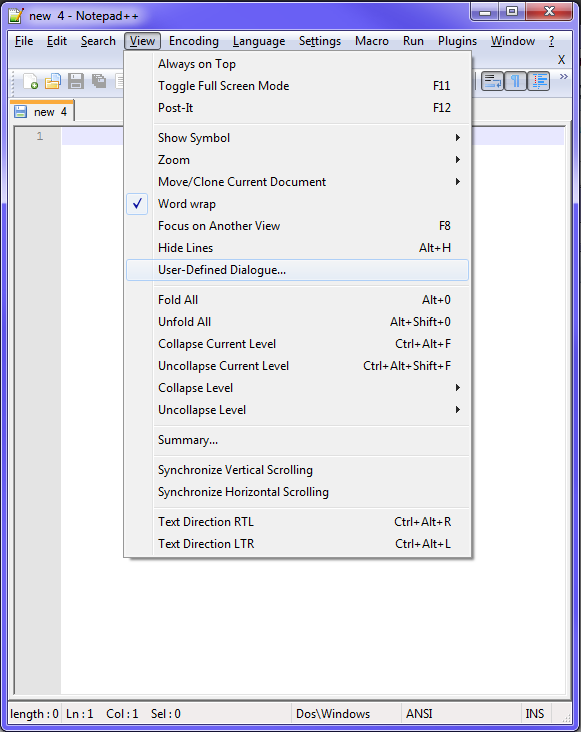
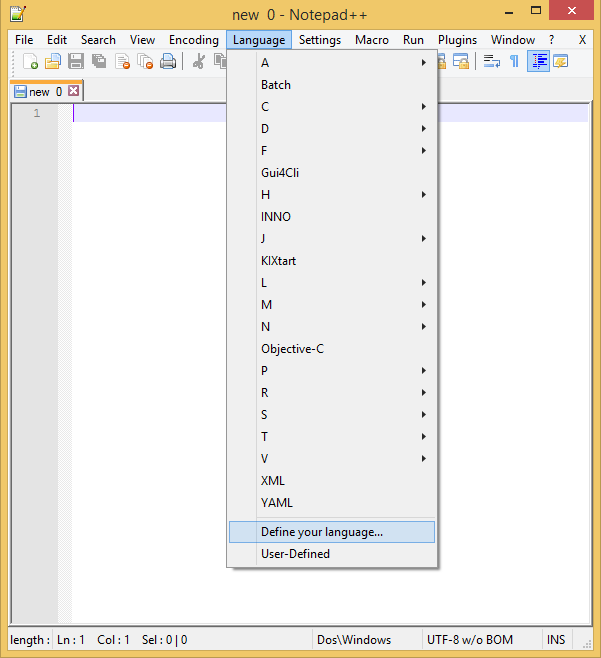
Installation process in now adjusted to notepad++ version 6.7.7

Changed region(s): [[0.0, 0.0, 1.0, 1.0]]

diff --git a/readme.rst b/readme.rst
@@ -1,10 +1,10 @@
 =================================================================================
- reStructuredText_NPP_ - reStructuredText basic syntax higlighting for Notepad++
+ reStructuredText_NPP_ - reStructuredText basic syntax highlighting for Notepad++
 =================================================================================
 :Author: Steen Hulthin Rasmussen <opensource@percipio.dk> 
 :Date: |date|
-:Description: reStructuredText_NPP_ is a User Defined Language for `Notepad++`_ that provides basic syntax higlighting for reStructuredText_. 
-:License: reStructuredText_NPP_ is licensensed under *The MIT License* (see http://opensource.org/licenses/mit-license.php or the license.txt file)
+:Description: reStructuredText_NPP_ is a User Defined Language for `Notepad++`_ that provides basic syntax highlighting for reStructuredText_. 
+:License: reStructuredText_NPP_ is licensed under *The MIT License* (see http://opensource.org/licenses/mit-license.php or the license.txt file)
 
 .. |date| date::
 .. _reStructuredText_NPP: https://github.com/steenhulthin/reStructuredText_NPP
@@ -15,7 +15,7 @@ Install
 =================
 #. Make sure you have `Notepad++`_ installed with the option to use %APPDATA% (which is the default).
 #. Download and unzip the zipped reStructuredText.xml from the (new) `download site`_ (This is the only file you need in order to use reStructuredText_NPP_.) 
-#. Start `Notepad++`_ and open the "User Defined Dialogue..." (Under View -> User Defined Dialogue...) 
+#. Start Notepad++ and open the "Define your language..." (Under the "Language" tab)
 
 .. _`download site`: http://steen.hulthin.dk/opensource/reStructuredText_NPP/downloads/reStructuredText_v0.1.zip
 .. image:: https://github.com/steenhulthin/reStructuredText_NPP/raw/master/documentation/select_user-defined_dialogue.png
@@ -25,6 +25,7 @@ Install
 .. image:: https://github.com/steenhulthin/reStructuredText_NPP/raw/master/documentation/import_user_define_language.png
 
 5. Restart `Notepad++`_
+6. Open .rst file and you should now have syntax highlighting.
 
 Features
 ==========
